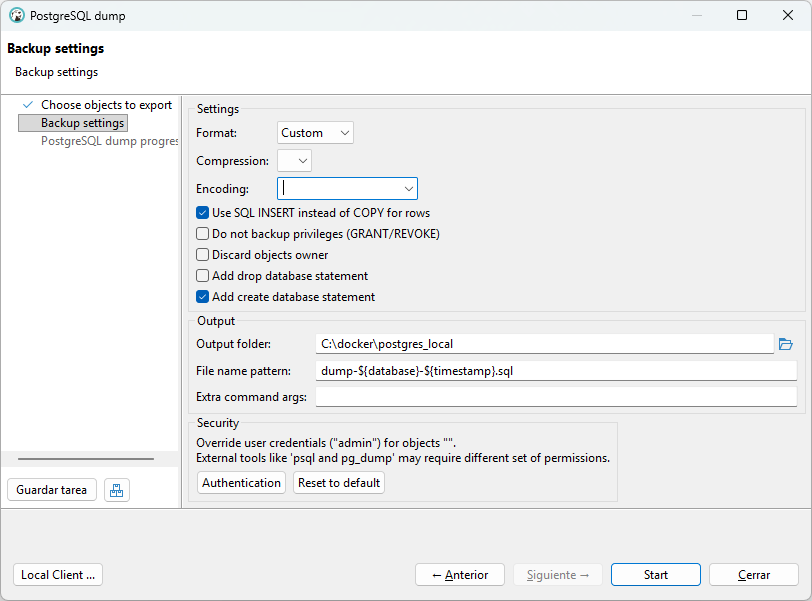
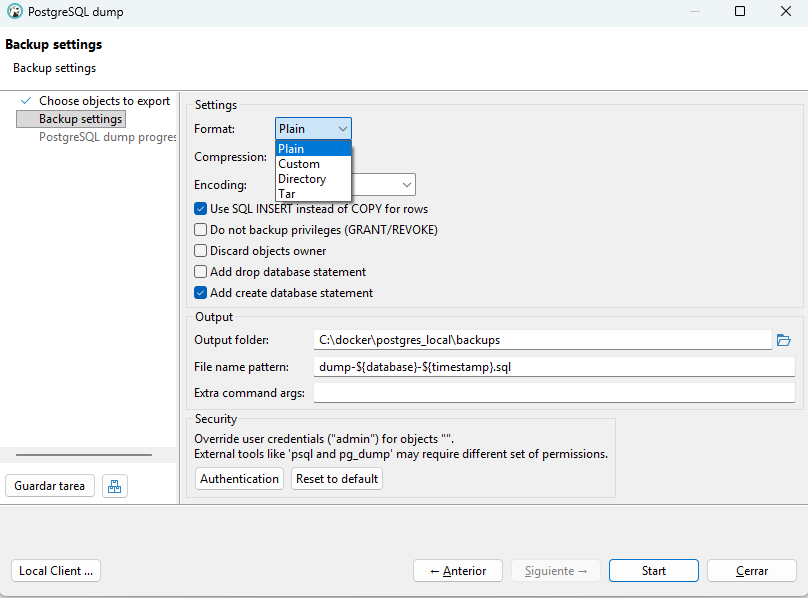
seguridad

diff --git a/docs/3_Seguridad.md b/docs/3_Seguridad.md
@@ -137,85 +137,42 @@ En nuestro entorno con **Docker**, **pg_dump** se ejecuta dentro del contenedor 
 
 En PostgreSQL las copias de seguridad pueden generarse principalmente en dos formatos: **SQL o dump** (formato custom). La elección de uno u otro depende del uso que se quiera dar al backup y de las herramientas que se utilizarán para restaurarlo.
 
-El formato SQL genera un archivo de texto que contiene sentencias SQL como CREATE TABLE, INSERT o ALTER. Estas sentencias permiten reconstruir la base de datos ejecutando el archivo con la herramienta **psql**. Este formato es fácil de leer y editar, por lo que suele utilizarse en entornos de aprendizaje o para bases de datos pequeñas.
+- **El formato SQL** genera un archivo de texto que contiene sentencias SQL como CREATE TABLE, INSERT o ALTER. Estas sentencias permiten reconstruir la base de datos ejecutando el archivo con la herramienta **psql**. Este formato es fácil de leer y editar, por lo que suele utilizarse en entornos de aprendizaje o para bases de datos pequeñas.
 
-Por otro lado, el formato dump o custom es un formato binario generado normalmente con la opción **-Fc** de pg_dump. Este tipo de archivo no es legible directamente, pero permite realizar restauraciones más flexibles utilizando la herramienta **pg_restore**. Entre sus ventajas se encuentran la posibilidad de restaurar solo ciertos objetos de la base de datos o realizar restauraciones en paralelo, lo que resulta especialmente útil en bases de datos de mayor tamaño.
+- **El formato dump o custom** es un formato binario generado normalmente con la opción **-Fc** de **pg_dump**. Este tipo de archivo no es legible directamente, pero permite realizar restauraciones más flexibles utilizando la herramienta **pg_restore**. Entre sus ventajas se encuentran la posibilidad de restaurar solo ciertos objetos de la base de datos o realizar restauraciones en paralelo, lo que resulta especialmente útil en bases de datos de mayor tamaño.
 
-En resumen, el formato SQL es más simple y legible, mientras que el formato dump ofrece mayor flexibilidad y eficiencia durante la restauración.
+!!!Note ""
+    En resumen, el formato **SQL** es más simple y legible, mientras que el formato **dump** ofrece mayor flexibilidad y eficiencia durante la restauración.
 
-Para los seguientes ejemplos crearemos una carpeta para los backups
+En los **siguientes ejemplos** aprenderemos a utilizar ambas herramientas para realizar copias de seguridad. Trabajaremos con la base de datos **tienda**, que hemos creado en esta unidad, y sobre ella realizaremos las copias de seguridad.
+
+Antes de empezar, crearemos una carpeta donde guardaremos los archivos de backup. Esto nos permitirá tener los datos organizados y localizarlos fácilmente.
+
+
 
         postgres_local/
         │
         ├─ docker-compose.yml
         └─ backups/
 
-
-<!--
-- Desde la carpeta donde está tu docker-compose.yml:
-
-
-        docker compose up -d
-
-- Comprobar que el contenedor está funcionando:
-
-        docker compose ps
-
-
-        Deberías ver algo parecido a:
-
-        NAME       IMAGE           SERVICE    STATUS
-        postgres   postgres:16.4   postgres   running        
-
-- Comprobar que PostgreSQL responde:
-
-        docker compose exec postgres psql -U admin -d tienda -c "SELECT version();"
-
-| Parte                          | Función                                  |
-| ------------------------------ | ---------------------------------------- |
-| docker compose exec postgres | Ejecuta el comando dentro del contenedor |
-| psql                         | Cliente de PostgreSQL                    |
-| -U admin                     | Usuario                                  |
-| -d tienda                    | Base de datos a la que conectarse        |
-| -c                           | Ejecuta una consulta                     |
-| "SELECT version();"          | Consulta que muestra la versión          |
-
-        Deberías ver algo parecido a:
-
-        version
-        ---------------------------------------------------------------------------------------------------------------------
-        PostgreSQL 16.4 (Debian 16.4-1.pgdg120+2) on x86_64-pc-linux-gnu, compiled by gcc (Debian 12.2.0-14) 12.2.0, 64-bit
-        (1 row)
-
--->
-**Ejemplo práctico 1**: Copia de seguridad de la base de datos **tienda** en formato **SQL**:
-
-- Desde la carpeta donde está tu docker-compose.yml, comprobar que pg_dump está disponible:
-
-        docker compose exec postgres pg_dump --version
-
-Deberías ver algo parecido a:
-
-        pg_dump (PostgreSQL) 16.4 (Debian 16.4-1.pgdg120+2)
-
-
-- Hacer la copia de seguridad de la bd **tienda** en formato SQL:
-
-
-        docker compose exec postgres pg_dump -U admin -C tienda > backups/tienda_backup.sql
+!!!Warning ""
+    **Ejemplo 1**: Copia de seguridad en formato **SQL**:    
+----
+        docker compose exec -T postgres pg_dump -U admin -C tienda > backups/tienda_backup.sql
 
 | Parte                        | Función                                                                |
 | -----------------------------| ------------------------------------------------------------------ |
 | docker compose exec postgres | Ejecuta un comando dentro del contenedor                           |
 | pg_dump                      | Herramienta que crea una copia de seguridad de una base de datos   |
+| -T                           | Evita problemas de codificación|
 | -U admin                     | Indica el usuario de PostgreSQL con el que se realiza la conexión  |
 | -C                           | Incluye en el archivo de backup la instrucción CREATE DATABASE     |
 | tienda                       | Nombre de la base de datos que se quiere copiar                    |
 | >                            | Redirige la salida del comando a un archivo                        |
 | tienda_backup.sql            | Archivo donde se guarda el backup en formato SQL                   |
 
-
-**Ejemplo práctico 2**: Copia de seguridad de la base de datos **tienda** en formato **dump (binario)**:
+!!!Warning ""
+    **Ejemplo 2**: Copia de seguridad en formato **dump (binario)**:
 
 Cuando se trabaja con PostgreSQL dentro de un contenedor Docker y se utiliza PowerShell en Windows, pueden aparecer problemas al manejar archivos de backup **binarios** (formato custom) usando redirecciones (>, <) o pipes. Esto ocurre porque PowerShell puede modificar el flujo de datos binarios.
 
@@ -224,20 +181,18 @@ Para evitar estos problemas, la forma más fiable es crear el backup dentro del 
 
 Primero se genera el backup dentro del contenedor usando pg_dump en formato custom:
 
-        docker compose exec postgres pg_dump -U admin -Fc -C tienda -f /tmp/dump-tienda.dump
+        docker compose exec -T postgres pg_dump -U admin -Fc -C tienda -f /tmp/dump_tienda.dump
 
 Después se copia el archivo desde el contenedor a la carpeta backups del sistema anfitrión:
 
         docker cp postgres:/tmp/dump-tienda.dump backups/dump-tienda.dump
 
-De esta forma el archivo queda guardado en:
-
-        backups/dump-tienda.dump
 
 | Parte                        | Función                                                                 |
 |------------------------------|-------------------------------------------------------------------------|
 | docker compose exec postgres | Ejecuta un comando dentro del contenedor                               |
 | pg_dump                      | Herramienta que crea una copia de seguridad de una base de datos       |
+| -T                           | Evita problemas de codificación|
 | -U admin                     | Indica el usuario de PostgreSQL con el que se realiza la conexión      |
 | -Fc                          | Genera el backup en formato custom (binario) compatible con pg_restore |
 | -C                           | Incluye en el backup la instrucción CREATE DATABASE                    |
@@ -248,7 +203,12 @@ De esta forma el archivo queda guardado en:
 
 ## 7. Restaurar una copia de seguridad en PostgreSQL
 
-En PostgreSQL existen diferentes herramientas que permiten realizar estas restauraciones, dependiendo principalmente del formato en el que se haya creado la copia de seguridad. Cuando el backup se encuentra en **formato SQL**, la restauración se realiza ejecutando las sentencias contenidas en el archivo mediante la herramienta **psql**. Por otro lado, cuando la copia de seguridad se ha generado en un **formato binario o personalizado**, se utiliza la herramienta **pg_restore**, que permite restaurar la información de forma más flexible.
+En PostgreSQL existen diferentes herramientas para restaurar copias de seguridad, dependiendo del formato del backup:
+
+- Backup en formato **SQL** (.sql): Se restaura ejecutando el archivo con la herramienta **psql**
+
+- Backup en formato **binario o personalizado** (.backup, .dump): Se restaura con la herramienta **pg_restore**
+
 
 Al restaurar una copia de seguridad en PostgreSQL, en algunos casos, el archivo de backup incluye la sentencia **CREATE DATABASE**, que crea automáticamente la base de datos durante la restauración. Por el contrario, si el archivo de backup no contiene la sentencia de creación de la base de datos, entonces es necesario crear la base de datos manualmente antes de restaurar el backup. Una vez creada, se ejecuta la restauración indicando esa base de datos como destino para que se creen las tablas, datos y demás objetos.   
 
@@ -256,66 +216,75 @@ Para crear una base de datos a partir de otra existente desde Docker Compose, de
 
         docker compose exec postgres psql -U admin -d postgres -c "CREATE DATABASE nueva_bd;"
 
-**Ejemplo práctico 3 - Restauración con psql**: En este ejemplo vamos a restaurar la copia de seguridad de la BD tienda, que hicimos en el ejemplo práctico 1. Como la copia la hicmos en formato SQL, la restauración la haremos con **psql**.
+En los siguientes ejemplos aprenderemos a utilizar ambas herramientas para restaurar la base de datos **tienda**, de la que ya hemos hecho la copia de seguridad en los ejemplos anteriores.        
+
+!!!Warning ""
+    **Ejemplo 3**: Restauración con **psql**
+En Linux:
+
+        docker compose exec -T postgres psql -U admin -d postgres < backups/tienda_backup.sql
+
+En Windows:
+
+        type backups/tienda_backup.sql | docker compose exec -T postgres psql -U admin -d postgres   
 
 
-        docker compose exec -T postgres psql -U admin -d tienda < tienda_backup.sql
 
-!!!Note "Nota"
-    Si aparece el error: `En línea: 1 Carácter: 63`. Este error  es debido a que estás usando PowerShell, y en PowerShell el operador **<** no funciona para redirección como en Linux o bash.
+!!!Warning ""
+    **Ejemplo 4**: Restauración con **pg_restore**
 
-    Una posible solución sería utilizar **type** o **Get-Content**:
+Primero se copia el archivo desde el contenedor a la carpeta backups del sistema anfitrión:
 
-        type backups/tienda_backup.sql | docker compose exec -T postgres psql -U admin -d tienda   
+        docker cp postgres:/tmp/dump-tienda.dump backups/dump-tienda.dump
 
-
-
-**Ejemplo práctico 4 - Restauración con pg_restore**: En este ejemplo vamos a restaurar la copia de seguridad de la BD tienda, que hicimos en el ejemplo práctico 2. Como la copia la hicmos en formato dump, la restauración la haremos con **pg_restore**.  
-Para que **pg_restore** funcione, el backup no puede ser un **.sql**, debe crearse con **pg_dump en formato binario (custom)** usando la opción **-Fc**.
+Después se restaura la BD desde la carpeta de backups usando **pg_restore**:
 
 
-Para restaurar la copia de seguridad, primero se vuelve a copiar el archivo al contenedor:
-
-        docker cp backups/dump-tienda.dump postgres:/tmp/dump-tienda.dump
-
-Después se ejecuta pg_restore dentro del contenedor:
-
-        docker compose exec postgres pg_restore -U admin -C -d postgres /tmp/dump-tienda.dump
+        docker compose exec postgres pg_restore -U admin -C -d postgres /tmp/dump_tienda.dump
 
 La opción -C permite que el proceso cree la base de datos tienda automáticamente antes de restaurar su contenido.
 
 
 ## 8. Copias de seguridad con DBeaver
 
-DBeaver permite realizar copias de seguridad utilizando una interfaz gráfica.
+Cuando se realizan copias de seguridad o restauraciones desde DBeaver, en realidad el programa no implementa su propio sistema de backup. Internamente utiliza las herramientas oficiales de PostgreSQL, como pg_dump, psql y pg_restore.
 
-Pasos:
+DBeaver simplemente proporciona una interfaz gráfica que facilita el uso de estas herramientas sin tener que escribir los comandos manualmente.
 
-![alt text](image-1.png)
+Dependiendo de la operación que se realice desde la interfaz, DBeaver ejecutará una u otra herramienta por debajo.
 
-![alt text](image-2.png)
 
-![alt text](image-3.png)
-
-![alt text](image-4.png)
-
-1. Conectarse al servidor PostgreSQL.
-2. Hacer clic derecho sobre la base de datos.
-3. Seleccionar Tools → Backup.
-4. Elegir el formato de exportación.
-5. Guardar el archivo de backup.
-9. Restauración con DBeaver
-
-Para restaurar una copia de seguridad en DBeaver:
-
-1. Crear una base de datos nueva.
-2. Hacer clic derecho sobre la base de datos.
-3. Seleccionar Tools → Restore.
-4. Elegir el archivo de backup.
-5. Ejecutar la restauración.
+| Opción en DBeaver        | Herramienta utilizada | Función                                                     |
+|--------------------------|----------------------|-------------------------------------------------------------|
+| Tools → Backup (SQL o dump)     | `pg_dump`            | Crear copias de seguridad en formato SQL (plain) o  custom o binario (.dump)          |
+| Tools → Restore (dump)   | `pg_restore`         | Restaurar copias en formato custom o binario               |
+| Execute Script           | `psql`               | Restaurar copias en formato SQL ejecutando el script       |
 
 
 
-Para saber las bd que tiene el servidor:
 
-        docker compose exec postgres psql -U admin -d postgres -l
+### Para hacer una copia de seguridad en DBeaver:
+
+
+| 1. Clic derecho, Tools → Backup | 2. Seleccionar los objetos |
+|----------------------|------------------------|
+| ![Paso 1](image-1.png) | ![Paso 2](image-2.png) |
+| **3. Elegir el formato de exportación** | **4. Guardar backup** |
+| ![Paso 3](image-3.png) | ![Paso 4](image-4.png) |
+
+### Para restaurar una copia de seguridad en DBeaver:
+
+- Si el archivo de backup es en formato SQL
+
+| 1. Clic derecho, Tools → Ejecutar Script | 2. Seleccionar el archivo .sql |
+|----------------------|------------------------|
+| ![Paso 5](image-9.png) | ![Paso 7](image-10.png) |
+
+- Si el archivo de backup es en formato dump
+
+| 1. Clic derecho, Tools → Restore | 2. Seleccionar el archivo .dmp |
+|----------------------|------------------------|
+| ![Paso 6](image-8.png) |![Paso 8](image-6.png) |
+
+
+

diff --git a/docs/2.2_Practica.md b/docs/2.2_Practica.md
@@ -1,0 +1,129 @@
+# 🧪 PRÁCTICA: Gestión de Transacciones con TCL (BD `tienda`)
+
+## 🎯 Objetivo
+
+Aprender a:
+
+- Utilizar **BEGIN / START TRANSACTION**
+- Aplicar **COMMIT**
+- Aplicar **ROLLBACK**
+- Usar **SAVEPOINT**
+- Entender la importancia de la atomicidad en bases de datos
+- Relacionar **TCL con DCL (roles y permisos)**
+
+---
+
+## 🗂 Contexto
+
+Trabajaremos con la base de datos  **tienda** ya creada, con su esquema **`app`**, tablas, roles y usuarios.
+
+Cuando se realiza una venta, deben ejecutarse varias acciones:
+
+1. Registrar la venta  
+2. Actualizar el stock del producto  
+
+⚠ Todo esto debe hacerse como una única unidad lógica.
+
+---
+
+## 📊 Insertar datos iniciales
+
+Si es necesario:
+
+- Inserta al menos 2 productos con stock suficiente  
+- Inserta alguna venta de prueba  
+
+---
+
+## 🧩 PARTE 1 — Sin Transacción (Para ver el problema)
+
+- Simular una venta SIN transacción:
+
+    - Inserta una venta de 2 unidades del producto con id = 1  
+    - Actualiza el stock correspondiente  
+    - Simula un fallo en mitad del proceso  
+    - Intenta continuar con otra operación  
+
+- Consultar el estado en el que han quedado las tablas.
+
+📌 **Pregunta:**  
+¿Es consistente la base de datos? Razona la respuesta.
+
+---
+
+## 🧩 PARTE 2 — Uso de BEGIN + COMMIT
+
+- Repite las operaciones anteriores, pero:
+
+    - Encapsula todas las operaciones en una transacción  
+    - Finaliza correctamente con COMMIT  
+
+- Consultar el estado en el que han quedado las tablas.
+
+📌 **Pregunta:**  
+¿Se han aplicado correctamente todos los cambios? Explica por qué.
+
+---
+
+## 🧩 PARTE 3 — Uso de ROLLBACK
+
+- Repite las operaciones anteriores, pero:
+
+    - Ejecuta ROLLBACK antes de finalizar  
+
+- Consultar el estado en el que han quedado las tablas.
+
+📌 **Pregunta:**  
+¿Se ha realizado alguna modificación?
+
+---
+
+## 🧩 PARTE 4 — Uso de SAVEPOINT
+
+- Repite las operaciones anteriores, pero:
+
+    - Introduce un SAVEPOINT antes de cada operación importante  
+    - Realiza una operación errónea  
+    - Revierte parcialmente usando ROLLBACK TO SAVEPOINT  
+    - Finaliza la transacción  
+
+- Consultar el estado en el que han quedado las tablas.
+
+📌 **Pregunta:**  
+¿Qué cambios se han guardado?
+
+---
+
+## 🔐 PARTE 5 — TCL + PERMISOS
+
+- Conéctate con el usuario **user_tpvs** y:
+
+    - Inicia una transacción  
+    - Intenta modificar el stock de productos  
+    - Finaliza la transacción  
+
+📌 **Pregunta:**  
+¿Se permite la operación? Explica qué ocurre y por qué.
+
+---
+
+## 🧠 PARTE 6 — Reflexión
+
+Responder:
+
+1. ¿Qué ventaja tienen las transacciones?  
+2. ¿Qué ocurriría en un sistema real sin ellas?  
+3. ¿Qué diferencia hay entre ROLLBACK y ROLLBACK TO SAVEPOINT?  
+4. ¿En qué situaciones reales usarías SAVEPOINT?  
+
+---
+
+## 🏁 RETO FINAL
+
+Crear una transacción que:
+
+- Venda **2 productos diferentes a la vez**  
+- Actualice correctamente el stock de ambos  
+- Si falla una operación, **no se debe registrar ninguna venta**  
+
+---
